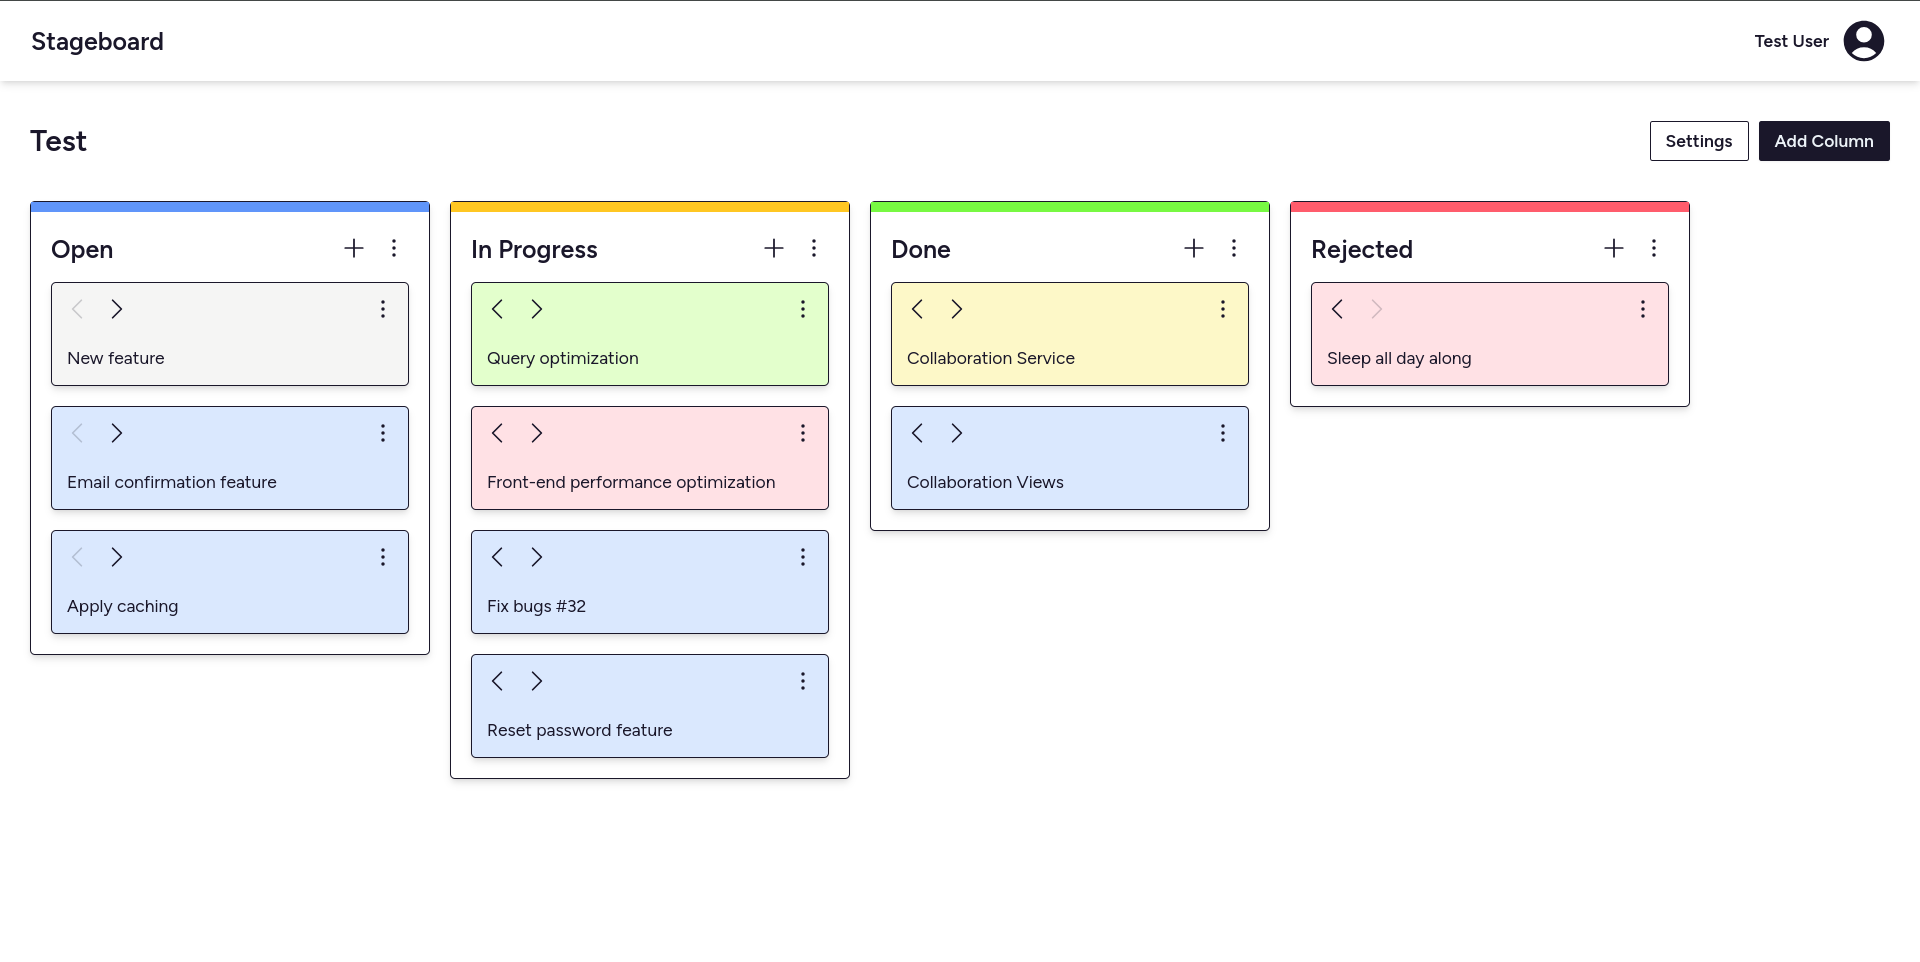
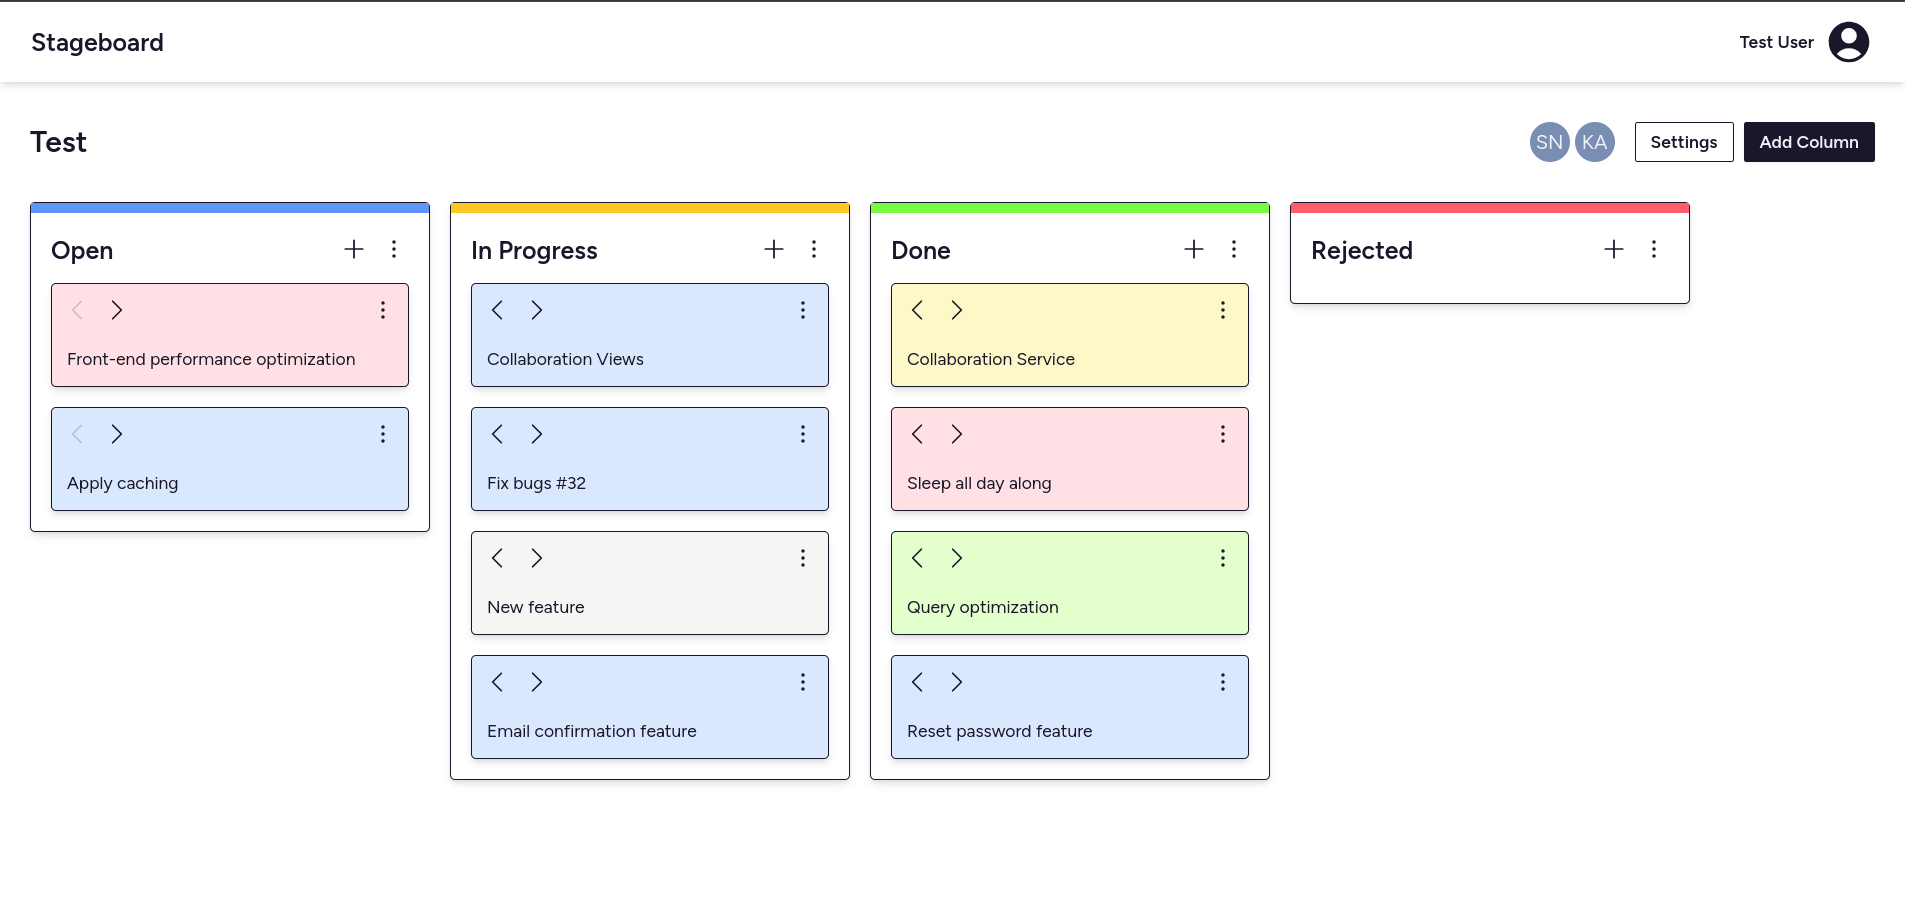
Implement realtime update

Changed region(s): [[0.0, 0.1228, 0.9911, 0.8596], [0.8982, 0.0, 0.9911, 0.0921], [0.0, 0.0307, 0.0929, 0.0614]]

diff --git a/resources/js/Pages/Board/Show.tsx b/resources/js/Pages/Board/Show.tsx
@@ -1,9 +1,9 @@
 import ColumnCard from '@/Components/ColumnCard'
 import { ColumnPosition, Permission } from '@/Enums'
 import MainLayout from '@/Layouts/MainLayout'
-import { type Board, type Card, type Column, type PageProps } from '@/types'
+import { type Board, type Card, type Column, type PageProps, type User } from '@/types'
 import { Head, Link, router } from '@inertiajs/react'
-import React, { type JSX, useState } from 'react'
+import React, { type JSX, useEffect, useState } from 'react'
 
 import CreateColumnModal from '@/Components/Modal/CreateColumnModal'
 import EditColumnModal from '@/Components/Modal/EditColumnModal'
@@ -33,10 +33,41 @@ export default function Show ({ auth, board, columns, permission }: BoardShowPro
   const [activeModal, setActiveModal] = useState(ActiveModal.None)
   const [editingColumn, setEditingColumn] = useState('')
   const [editingCard, setEditingCard] = useState('')
+  const [activeUsers, setActiveUsers] = useState<User[]>([])
 
   const sortedColumns = columns.toSorted((a, b) => a.order - b.order)
 
   const permissionLevel = getPermissionLevel(permission)
+
+  useEffect(() => {
+    window.Echo.join(`board.${board.id}`)
+      .here((users: User[]) => {
+        setActiveUsers(users.filter((user) => user.id !== auth.user.id))
+      })
+      .joining((user: User) => {
+        // setActiveUsers((prev) => {
+        //   if (prev.find((item) => item.id === user.id) === undefined) {
+        //     prev.push(user)
+        //   }
+        //   return prev
+        // })
+        router.reload()
+      })
+      .leaving((user: User) => {
+        // setActiveUsers((prev) => prev.filter((item) => item.id === user.id))
+        router.reload()
+      })
+      .error((error: User) => {
+        console.error(error)
+      })
+  }, [])
+
+  useEffect(() => {
+    window.Echo.private(`board.${board.id}`)
+      .listen('BoardChangedEvent', (e: any) => {
+        router.reload()
+      })
+  }, [])
 
   const getColumnPosition = (order: number): ColumnPosition => {
     if (order === 0) return ColumnPosition.First
@@ -51,7 +82,7 @@ export default function Show ({ auth, board, columns, permission }: BoardShowPro
         <header className="px-6 pt-8 pb-2 flex justify-between">
           <h1 className="font-bold text-2xl">{board.name}</h1>
           <div className="flex gap-4 items-center">
-            <ActiveUser />
+            <ActiveUser users={activeUsers} />
             <div className="space-x-2">
               {permissionLevel <= getPermissionLevel(Permission.FullAccess) && (
                 <Link

diff --git a/resources/js/Components/ActiveUser.tsx b/resources/js/Components/ActiveUser.tsx
@@ -1,35 +1,20 @@
-import React, { type JSX, useEffect, useState } from 'react'
+import React, { type JSX, useState } from 'react'
 import type { User } from '@/types'
 import { usePage } from '@inertiajs/react'
 import { type BoardShowProps } from '@/Pages/Board/Show'
 
-export default function ActiveUser (): JSX.Element {
-  const { auth, board } = usePage<BoardShowProps>().props
+export default function ActiveUser ({ users }: { users: User[] }): JSX.Element {
+  const { board } = usePage<BoardShowProps>().props
 
-  const [activeUsers, setActiveUsers] = useState<User[]>([])
-
-  useEffect(() => {
-    window.Echo.join(`board.${board.id}`)
-      .here((users: User[]) => {
-        setActiveUsers(users.filter((user) => user.id !== auth.user.id))
-      })
-      .joining((user: User) => {
-        console.log(user.name)
-      })
-      .leaving((user: User) => {
-        console.log(user.name)
-      })
-      .error((error: User) => {
-        console.error(error)
-      })
-  }, [])
+  const [rendererUsers, restUsersCount] = [users.slice(0, 6), users.slice(6).length]
 
   return (
-    <div className="space-x-1 rtl:space-x-reverse cursor-default">
-      {activeUsers.map((user) => (
+    <div className="flex flex-row-reverse gap-1 cursor-default">
+      {rendererUsers.map((user) => (
         <div key={user.id} className="dropdown dropdown-end dropdown-hover">
           <div tabIndex={0} key={user.id} className="avatar placeholder">
-            <div tabIndex={0} className={`text-neutral-content rounded-full w-8 ${user.id === board.user.id ? 'bg-primary' : 'bg-secondary'}`}>
+            <div tabIndex={0}
+                 className={`text-neutral-content rounded-full w-8 ${user.id === board.user.id ? 'bg-primary' : 'bg-secondary'}`}>
               <span>{user.name.slice(0, 2).toUpperCase()}</span>
             </div>
           </div>
@@ -40,6 +25,13 @@ export default function ActiveUser (): JSX.Element {
           </div>
         </div>
       ))}
+      {restUsersCount > 0 && (
+        <div className="avatar placeholder">
+          <div className="text-secondary-content border-2 border-secondary rounded-full w-8">
+            <span>+{restUsersCount}</span>
+          </div>
+        </div>
+      )}
     </div>
   )
 }

diff --git a/app/Observers/ColumnObserver.php b/app/Observers/ColumnObserver.php
@@ -1,0 +1,49 @@
+<?php
+
+namespace App\Observers;
+
+use App\Events\BoardChangedEvent;
+use App\Models\Column;
+
+class ColumnObserver
+{
+    /**
+     * Handle the Column "created" event.
+     */
+    public function created(Column $column): void
+    {
+        broadcast(new BoardChangedEvent($column->board))->toOthers();
+    }
+
+    /**
+     * Handle the Column "updated" event.
+     */
+    public function updated(Column $column): void
+    {
+        broadcast(new BoardChangedEvent($column->board))->toOthers();
+    }
+
+    /**
+     * Handle the Column "deleted" event.
+     */
+    public function deleted(Column $column): void
+    {
+        broadcast(new BoardChangedEvent($column->board))->toOthers();
+    }
+
+    /**
+     * Handle the Column "restored" event.
+     */
+    public function restored(Column $column): void
+    {
+        //
+    }
+
+    /**
+     * Handle the Column "force deleted" event.
+     */
+    public function forceDeleted(Column $column): void
+    {
+        //
+    }
+}

diff --git a/app/Observers/CardObserver.php b/app/Observers/CardObserver.php
@@ -1,0 +1,49 @@
+<?php
+
+namespace App\Observers;
+
+use App\Events\BoardChangedEvent;
+use App\Models\Card;
+
+class CardObserver
+{
+    /**
+     * Handle the Card "created" event.
+     */
+    public function created(Card $card): void
+    {
+        broadcast(new BoardChangedEvent($card->column->board))->toOthers();
+    }
+
+    /**
+     * Handle the Card "updated" event.
+     */
+    public function updated(Card $card): void
+    {
+        broadcast(new BoardChangedEvent($card->column->board))->toOthers();
+    }
+
+    /**
+     * Handle the Card "deleted" event.
+     */
+    public function deleted(Card $card): void
+    {
+        broadcast(new BoardChangedEvent($card->column->board))->toOthers();
+    }
+
+    /**
+     * Handle the Card "restored" event.
+     */
+    public function restored(Card $card): void
+    {
+        //
+    }
+
+    /**
+     * Handle the Card "force deleted" event.
+     */
+    public function forceDeleted(Card $card): void
+    {
+        //
+    }
+}

diff --git a/app/Events/BoardChangedEvent.php b/app/Events/BoardChangedEvent.php
@@ -1,0 +1,38 @@
+<?php
+
+namespace App\Events;
+
+use App\Models\Board;
+use Illuminate\Broadcasting\Channel;
+use Illuminate\Broadcasting\InteractsWithSockets;
+use Illuminate\Broadcasting\PresenceChannel;
+use Illuminate\Broadcasting\PrivateChannel;
+use Illuminate\Contracts\Broadcasting\ShouldBroadcast;
+use Illuminate\Contracts\Broadcasting\ShouldBroadcastNow;
+use Illuminate\Foundation\Events\Dispatchable;
+use Illuminate\Queue\SerializesModels;
+
+class BoardChangedEvent implements ShouldBroadcastNow
+{
+    use Dispatchable, InteractsWithSockets, SerializesModels;
+
+    /**
+     * Create a new event instance.
+     */
+    public function __construct(public Board $board)
+    {
+        //
+    }
+
+    /**
+     * Get the channels the event should broadcast on.
+     *
+     * @return array<int, \Illuminate\Broadcasting\Channel>
+     */
+    public function broadcastOn(): array
+    {
+        return [
+            new PrivateChannel('board.' . $this->board->id),
+        ];
+    }
+}

diff --git a/app/Observers/BoardObserver.php b/app/Observers/BoardObserver.php
@@ -1,0 +1,49 @@
+<?php
+
+namespace App\Observers;
+
+use App\Events\BoardChangedEvent;
+use App\Models\Board;
+
+class BoardObserver
+{
+    /**
+     * Handle the Board "created" event.
+     */
+    public function created(Board $board): void
+    {
+        //
+    }
+
+    /**
+     * Handle the Board "updated" event.
+     */
+    public function updated(Board $board): void
+    {
+        broadcast(new BoardChangedEvent($board))->toOthers();
+    }
+
+    /**
+     * Handle the Board "deleted" event.
+     */
+    public function deleted(Board $board): void
+    {
+        broadcast(new BoardChangedEvent($board))->toOthers();
+    }
+
+    /**
+     * Handle the Board "restored" event.
+     */
+    public function restored(Board $board): void
+    {
+        //
+    }
+
+    /**
+     * Handle the Board "force deleted" event.
+     */
+    public function forceDeleted(Board $board): void
+    {
+        //
+    }
+}

diff --git a/app/Providers/EventServiceProvider.php b/app/Providers/EventServiceProvider.php
@@ -2,6 +2,12 @@
 
 namespace App\Providers;
 
+use App\Models\Board;
+use App\Models\Card;
+use App\Models\Column;
+use App\Observers\BoardObserver;
+use App\Observers\CardObserver;
+use App\Observers\ColumnObserver;
 use Illuminate\Auth\Events\Registered;
 use Illuminate\Auth\Listeners\SendEmailVerificationNotification;
 use Illuminate\Foundation\Support\Providers\EventServiceProvider as ServiceProvider;
@@ -41,4 +47,10 @@ class EventServiceProvider extends ServiceProvider
             $this->app->path('Listeners'),
         ];
     }
+
+    protected $observers = [
+        Board::class => [BoardObserver::class],
+        Column::class => [ColumnObserver::class],
+        Card::class => [CardObserver::class]
+    ];
 }

diff --git a/app/Models/Board.php b/app/Models/Board.php
@@ -3,6 +3,7 @@
 namespace App\Models;
 
 use App\Enums\BoardPermission;
+use App\Events\BoardChangedEvent;
 use App\Events\BoardCreated;
 use Illuminate\Database\Eloquent\Concerns\HasUlids;
 use Illuminate\Database\Eloquent\Factories\HasFactory;
